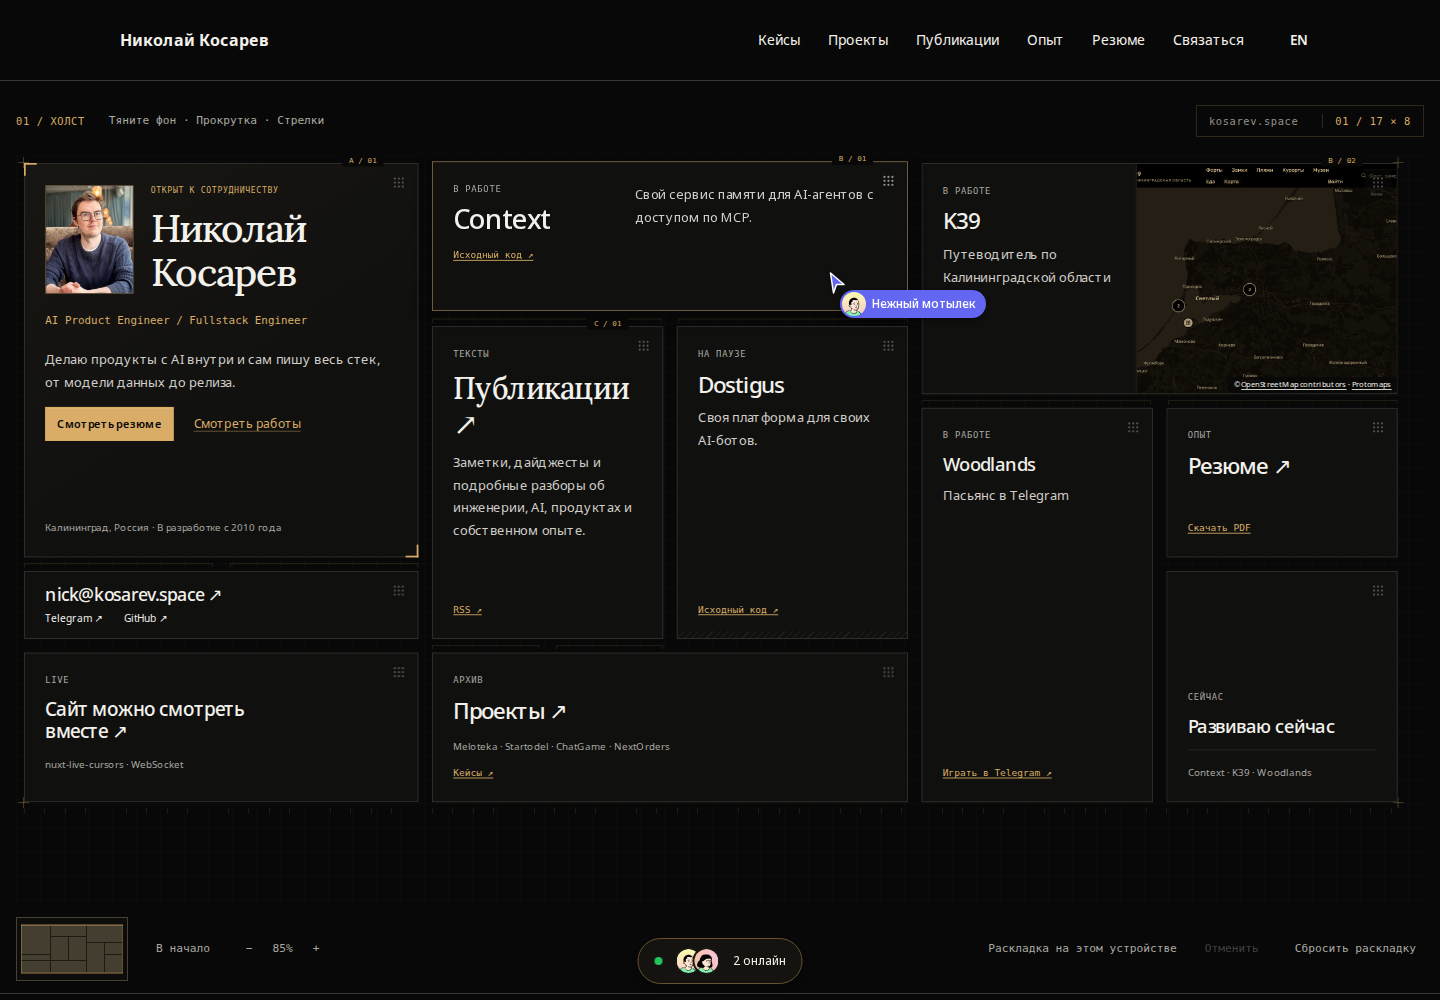
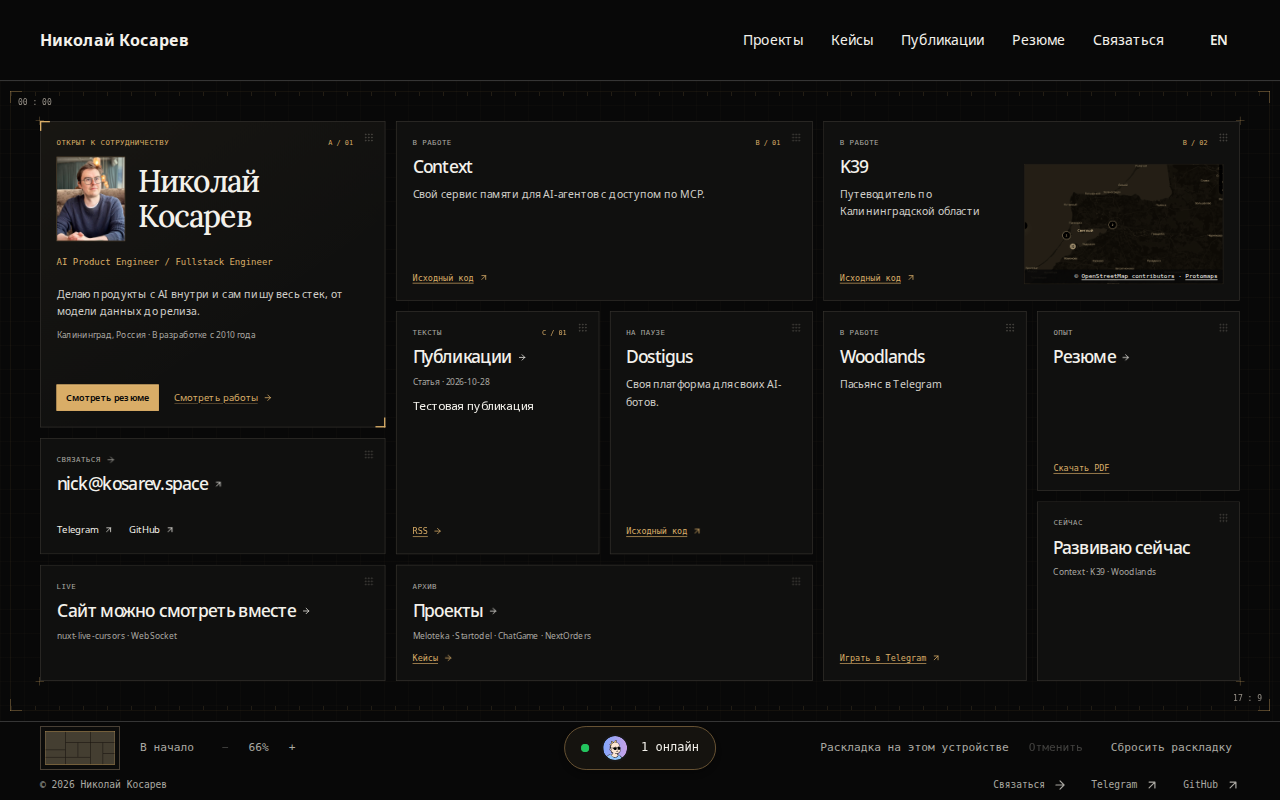
docs: add fullscreen canvas and route review captures

diff --git a/e2e/canvas-precision.test.ts b/e2e/canvas-precision.test.ts
@@ -32,7 +32,7 @@ for (const locale of ['en', 'ru']) {
         // Opt-in, reviewable evidence on the same browser path as the assertions.
         if (process.env.CANVAS_SCREENSHOTS) {
           await page.evaluate(() => Promise.all([...document.images].filter((img) => img.complete).map((img) => img.decode().catch(() => {}))))
-          await page.screenshot({ path: `docs/images/canvas-precision/${process.env.CANVAS_SCREENSHOTS}-${locale}-${width}.png`, fullPage: true, animations: 'disabled' })
+          await page.screenshot({ path: `docs/images/canvas-fullscreen/${process.env.CANVAS_SCREENSHOTS}-${locale}-${width}.png`, fullPage: true, animations: 'disabled' })
         }
         const edges = await page.locator(width >= 768 ? '.site-header-inner, .canvas-tools' : '.site-header-inner, .canvas-heading, .canvas-viewport, .site-footer > .site-wrap').evaluateAll((elements) => elements.map((element) => {
           const rect = element.getBoundingClientRect()

diff --git a/docs/images/canvas-fullscreen/README.md b/docs/images/canvas-fullscreen/README.md
@@ -1,0 +1,33 @@
+# Fullscreen canvas review captures
+
+Local Chromium previews, with the development toolbar hidden. These are review
+evidence, not deployment screenshots. Home before captures use unchanged
+`adfb5b0` (PR #31); after captures show the fullscreen canvas and route migration.
+
+Both Russian and English are captured at:
+
+| Width | Height | Layout |
+| --- | --- | --- |
+| 1024 | 800 | Fitted desktop canvas |
+| 1280 | 800 | Fitted desktop canvas |
+| 1440 | 800 | Fitted desktop canvas |
+| 1920 | 1080 | Fitted desktop canvas |
+| 390 | 844 | Stacked mobile blocks and full footer |
+
+`before-{locale}-{width}.png` and `after-{locale}-{width}.png` are full-page
+captures. Desktop after captures have no page scroll. Mobile retains the
+normal footer; before captures also include the former catalog disclosure and
+full contact footer.
+
+The new `/projects`, `/cases` and `/contact` pages are captured at 1280 × 800
+in both languages, as `{route}-{locale}-1280.png`. Writing uses the repository's
+synthetic publication fixture in both before and after captures. Case index
+captures use the tracked reviewed engineering-case bundle, with synthetic tags
+where metadata is absent and zero counters. No production database was read or
+changed.
+
+The refreshed `../canvas-home-*.png` files match the 1280px desktop and 390px
+mobile after captures. Browser geometry checks live in
+[`canvas-fullscreen.test.ts`](../../../e2e/canvas-fullscreen.test.ts) and
+[`canvas-precision.test.ts`](../../../e2e/canvas-precision.test.ts); tests assert
+layout and navigation without pixel-perfect font comparisons.

diff --git a/docs/brand.md b/docs/brand.md
@@ -97,7 +97,8 @@ Body copy remains proportional and readable.
 The shared tokens and components are defined in
 [`blueprint.css`](../apps/web-app/app/assets/css/blueprint.css) and
 [`components/blueprint`](../apps/web-app/app/components/blueprint/).
-The canvas uses a 96px cell and 16px gap. Its blueprint grid is barely visible.
+The canvas starts with a 96px logical cell and 16px gap; cells expand to
+use the viewport before the board is uniformly scaled. Its blueprint grid is barely visible.
 Frames may carry a part number or gold corner marks, but neither is required
 on every block. Zone labels, dimension lines, crosshairs, rulers, title blocks
 and hatching are available as small reusable marks. Keep them at edges and in
